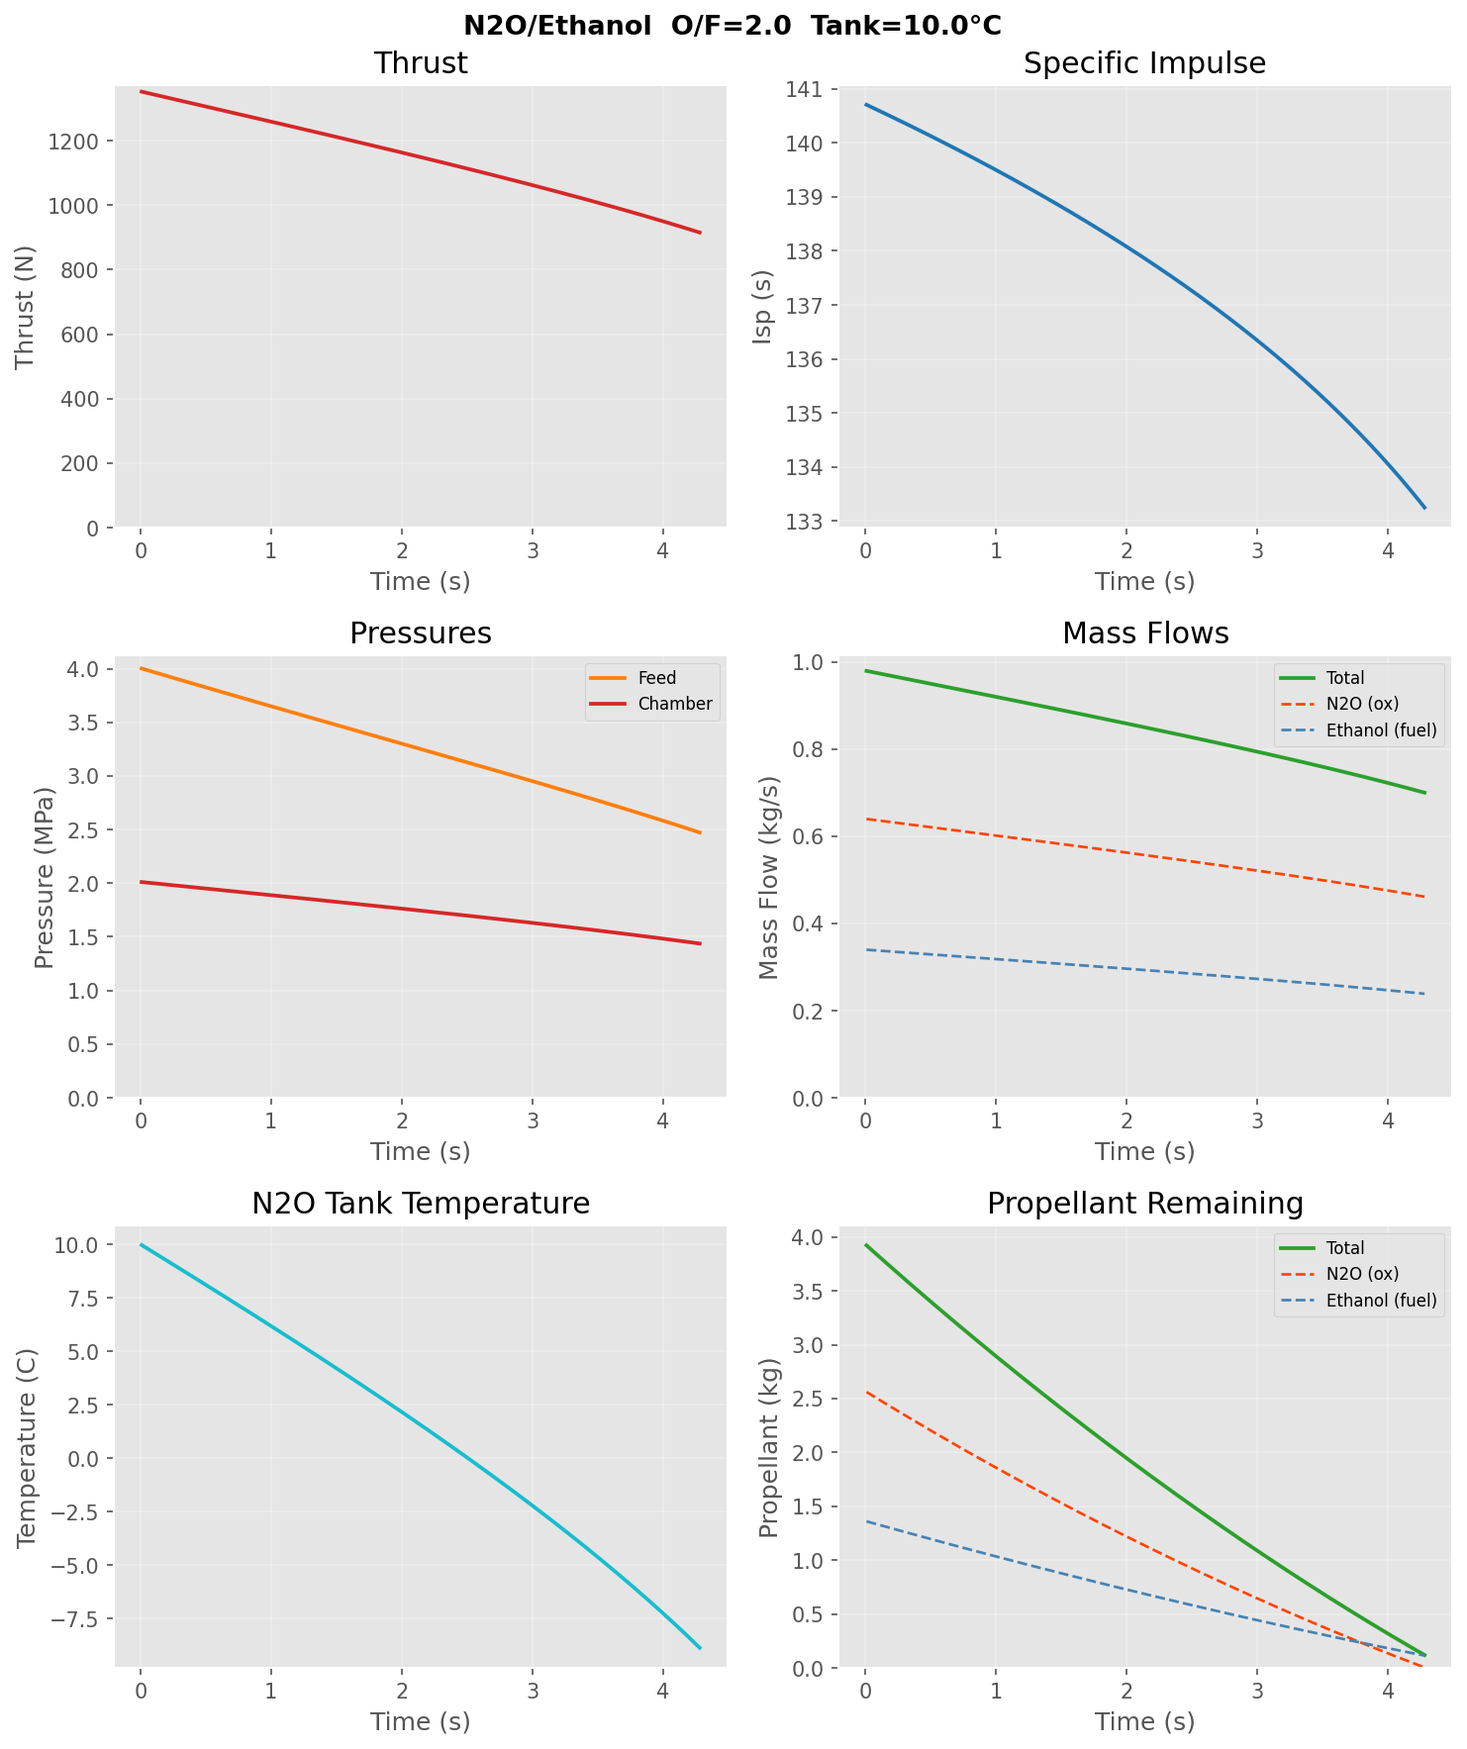
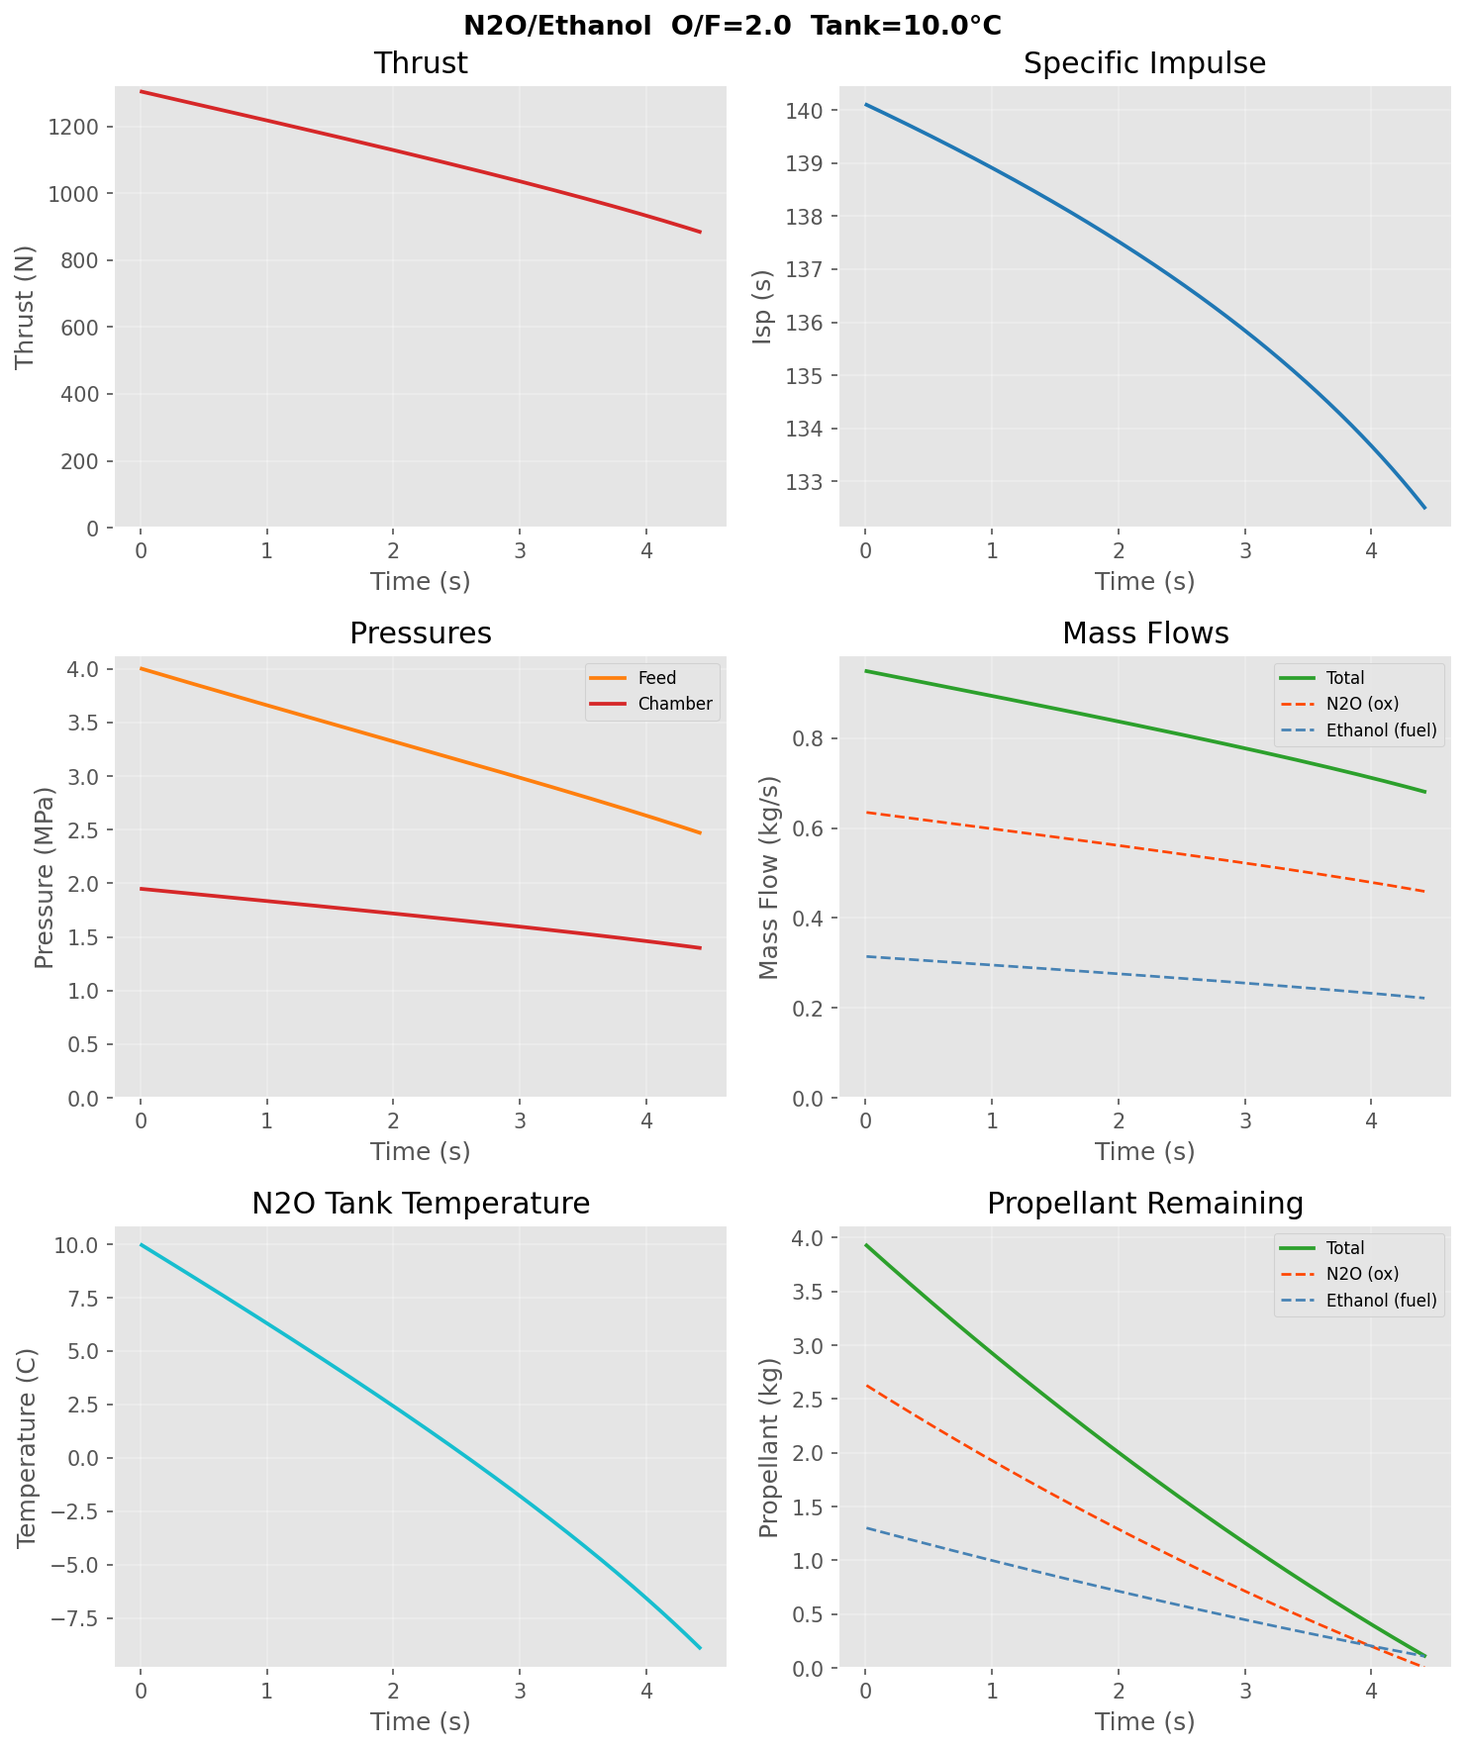
Fittings documentation update
Added fittings for fuel under fluid system, changed fittings to BSPT

diff --git a/Simulation/PistonLiquidRocket.py b/Simulation/PistonLiquidRocket.py
@@ -39,7 +39,7 @@ plt.style.use('ggplot')
 
 sys.stdout.reconfigure(encoding='utf-8', errors='replace')
 from dataclasses import dataclass, field
-from typing import Optional
+from typing import Optional, Tuple
 
 try:
     from CoolProp.CoolProp import PropsSI as _CP
@@ -330,7 +330,7 @@ class EngineConfig:
     # from the design O/F ratio and inj_target_dp.
     cd_ox          : float           = 0.6    # discharge coefficient, N2O orifice(s)
     cd_fuel        : float           = 0.6    # discharge coefficient, fuel orifice(s)
-    ox_hole_diam   : Optional[float] = 2e-3   # N2O injector hole diameter [m]; None = auto-size
+    ox_hole_diam   : Optional[float] = 2.2e-3 # N2O injector hole diameter [m]; None = auto-size (sized for O/F 2.0 with feed-line losses)
     ox_n_holes     : int             = 6      # number of N2O injector holes
     fuel_hole_diam : Optional[float] = 1.5e-3 # fuel injector hole diameter [m]; None = auto-size
     fuel_n_holes   : int             = 6      # number of fuel injector holes
@@ -343,19 +343,22 @@ class EngineConfig:
     A_inj_ox     : Optional[float] = field(default=None, init=False)
     A_inj_fuel   : Optional[float] = field(default=None, init=False)
 
-    # Oxidiser (N2O) feed line  — pipe geometry + in-line valve
-    ox_line_id       : float = 7.94e-3  # inner diameter [m];  0 = no feed-line loss
-    ox_line_length   : float = 0.304    # total length [m]
-    ox_line_roughness: float = 1.5e-6   # wall roughness [m]  (smooth drawn tube default)
-    ox_valve_Cd      : float = 0.8      # valve discharge coefficient [-];  0 = no valve
-    ox_valve_diam    : float = 0.01     # valve bore diameter [m]
+    # Oxidiser (N2O) feed line  — AN6 PTFE hose + in-line valve + fittings
+    # (see OX_FITTINGS / FUEL_FITTINGS below the FeedLine section for the trains)
+    ox_line_id       : float = 7.94e-3  # AN6 PTFE hose inner diameter [m];  0 = no feed-line loss
+    ox_line_length   : float = 0.200    # hose length [m]
+    ox_line_roughness: float = 1.5e-6   # wall roughness [m]  (smooth PTFE liner)
+    ox_valve_Cd      : float = 0.9      # 1/4" BSP 2-pc full-port ball valve, fully open (K ≈ 0.23)
+    ox_valve_diam    : float = 8.0e-3   # valve bore diameter [m]
+    ox_fittings      : Tuple = field(default_factory=lambda: OX_FITTINGS)
 
-    # Fuel feed line  — pipe geometry + in-line valve
+    # Fuel feed line  — same parts, straight hose ends
     fuel_line_id       : float = 7.94e-3
-    fuel_line_length   : float = 1.219
+    fuel_line_length   : float = 0.900
     fuel_line_roughness: float = 1.5e-6
-    fuel_valve_Cd      : float = 0.8
-    fuel_valve_diam    : float = 0.01
+    fuel_valve_Cd      : float = 0.9
+    fuel_valve_diam    : float = 8.0e-3
+    fuel_fittings      : Tuple = field(default_factory=lambda: FUEL_FITTINGS)
 
     # O/F and fuel
     of_ratio         : float          = 2.0
@@ -677,16 +680,57 @@ class PistonTank:
 #   Feed line hydraulic model
 # ═══════════════════════════════════════════════════════════════════════════════
 
+@dataclass(frozen=True)
+class Fitting:
+    """
+    A local (minor) loss in a feed line: ΔP = K · ½ρv², with v taken at `bore`.
+    Equivalent CdA = A_bore / √K, so it adds in series like any other restriction.
+    """
+    name : str
+    bore : float   # flow diameter the K is referenced to [m]
+    K    : float   # loss coefficient [-] (velocity heads at `bore`)
+
+    @property
+    def cda(self) -> float:
+        return np.pi / 4 * self.bore ** 2 / np.sqrt(self.K)
+
+
+# Representative fitting trains for the fluid system in
+# Documentation Vault/02-Design/01-Propulsion System/03-Fluid System.md.
+# Bores are estimates until the parts are measured; K values are standard
+# handbook figures (Idelchik / Crane TP-410) for the geometry described.
+_HOSE_END_BORE = 6.35e-3   # PTFE AN6 hose-end insert ID (~1/4"), est.
+_BSPT18_BORE   = 4.8e-3    # 1/8" BSPT x AN6 adapter bore, limited by 1/8" thread, est.
+
+FUEL_FITTINGS: Tuple[Fitting, ...] = (
+    Fitting("tank exit -> bulkhead port",    8.0e-3, 0.5),   # sharp-edged entrance
+    Fitting("1/4\" BSPT nipple (~100 mm)",   8.0e-3, 0.2),   # f·L/D ≈ 0.014·100/8
+    Fitting("1/4\" BSPT x AN6 adapter",      7.0e-3, 0.15),  # mild step 8 -> 7 mm
+    Fitting("straight hose end (tank)",      _HOSE_END_BORE, 0.5),  # contraction + re-expansion
+    Fitting("straight hose end (injector)",  _HOSE_END_BORE, 0.5),
+    Fitting("1/8\" BSPT x AN6 adapter",      _BSPT18_BORE, 1.3),    # 0.3 contraction + 1.0 dump into manifold
+)
+OX_FITTINGS: Tuple[Fitting, ...] = (
+    FUEL_FITTINGS[0], FUEL_FITTINGS[1], FUEL_FITTINGS[2],
+    Fitting("180° hose end (tank)",          _HOSE_END_BORE, 1.1),  # 0.5 insert + ~0.6 tight 180° bend
+    FUEL_FITTINGS[4],
+    Fitting("AN6 x 1/4\" BSPT adapter",      7.0e-3, 1.1),   # 0.1 step + 1.0 dump into manifold
+)
+
+
 @dataclass
 class FeedLine:
     """
-    Hydraulic model for a feed line (hose/pipe + in-line valve), all in CdA terms.
+    Hydraulic model for a feed line (hose/pipe + in-line valve + fittings),
+    all in CdA terms.
 
     Pipe CdA from Darcy-Weisbach (density cancels exactly):
       CdA_pipe = A / √(f · L/D)   where f = fully-turbulent Colebrook-White limit
 
-    Series combination with valve:
-      1/CdA_eff² = 1/CdA_pipe² + 1/CdA_valve²
+    Fitting CdA from its loss coefficient:  CdA_fit = A_bore / √K
+
+    Series combination:
+      1/CdA_eff² = 1/CdA_pipe² + 1/CdA_valve² + Σ 1/CdA_fit²
 
     f = 0.25 / [log₁₀(ε/3.7D)]²  — Re-independent (Moody chart fully-rough asymptote).
     Valid when Re > ~3500·(D/ε); holds well at propellant flow rates.
@@ -696,6 +740,7 @@ class FeedLine:
     roughness  : float = 1.5e-6   # absolute wall roughness [m] (smooth drawn tube default)
     valve_Cd   : float = 0.0      # valve discharge coefficient [-]; 0 = no valve loss
     valve_diam : float = 0.0      # valve bore diameter [m]
+    fittings   : Tuple[Fitting, ...] = ()   # local losses in series with pipe + valve
 
     def friction_factor(self) -> float:
         """Fully-turbulent Colebrook-White: 1/√f = −2·log₁₀(ε/3.7D)"""
@@ -721,6 +766,8 @@ class FeedLine:
             inv_sq += 1.0 / CdA_pipe ** 2
         if self.valve_cda > 0:
             inv_sq += 1.0 / self.valve_cda ** 2
+        for fit in self.fittings:
+            inv_sq += 1.0 / fit.cda ** 2
         return 1.0 / np.sqrt(inv_sq) if inv_sq > 0 else 0.0
 
     def summary(self) -> str:
@@ -733,6 +780,8 @@ class FeedLine:
         if self.valve_Cd > 0 and self.valve_diam > 0:
             CdA_v = self.valve_Cd * np.pi / 4 * self.valve_diam ** 2
             parts.append(f"valve {self.valve_diam*1e3:.2f} mm × Cd {self.valve_Cd:.3f} = CdA {CdA_v*1e6:.3f} mm²")
+        if self.fittings:
+            parts.append(f"{len(self.fittings)} fittings")
         desc = "  ".join(parts) if parts else "none"
         return f"{desc}  →  CdA={cda*1e6:.3f} mm²" if cda > 0 else "none"
 
@@ -766,11 +815,13 @@ class PistonEngine:
             inner_diam=cfg.ox_line_id,   length=cfg.ox_line_length,
             roughness=cfg.ox_line_roughness,
             valve_Cd=cfg.ox_valve_Cd,    valve_diam=cfg.ox_valve_diam,
+            fittings=tuple(cfg.ox_fittings),
         )
         self._feedline_fuel = FeedLine(
             inner_diam=cfg.fuel_line_id, length=cfg.fuel_line_length,
             roughness=cfg.fuel_line_roughness,
             valve_Cd=cfg.fuel_valve_Cd,  valve_diam=cfg.fuel_valve_diam,
+            fittings=tuple(cfg.fuel_fittings),
         )
         # Series combination: 1/K_eff^2 = 1/K_inj^2 + 1/K_line^2
         for fl, attr, rho in [
@@ -1087,12 +1138,13 @@ def print_config(cfg: EngineConfig, eng: PistonEngine):
     fl_ox   = eng._feedline_ox
     fl_fuel = eng._feedline_fuel
     print(f"  Feed lines")
-    print(f"    N2O  : {fl_ox.summary()}")
-    if fl_ox.valve_cda > 0:
-        print(f"           valve CdA = {fl_ox.valve_cda*1e6:.3f} mm²")
-    print(f"    Fuel : {fl_fuel.summary()}")
-    if fl_fuel.valve_cda > 0:
-        print(f"           valve CdA = {fl_fuel.valve_cda*1e6:.3f} mm²")
+    for label, fl in (("N2O ", fl_ox), ("Fuel", fl_fuel)):
+        print(f"    {label} : {fl.summary()}")
+        if fl.valve_cda > 0:
+            print(f"           valve CdA = {fl.valve_cda*1e6:.3f} mm²")
+        for fit in fl.fittings:
+            print(f"           {fit.name:<30s} Ø{fit.bore*1e3:.2f} mm  K={fit.K:.2f}"
+                  f"  CdA={fit.cda*1e6:.2f} mm²")
     print(f"  Injectors")
     print(f"    N2O  : {cfg.ox_n_holes}x Ø{cfg.ox_hole_diam*1e3:.3f} mm  "
           f"(A={cfg.A_inj_ox*1e6:.2f} mm²)  Cd={cfg.cd_ox:.3f}  "

diff --git a/Simulation/baseline_mojave.py b/Simulation/baseline_mojave.py
@@ -119,6 +119,10 @@ cfg = EngineConfig(
     fuel_valve_Cd       = 1.0,
     fuel_valve_diam     = VALVE_DIAM,   # Cv=1.6
 
+    # HalfCatSim models no fitting losses beyond the line + valve
+    ox_fittings         = (),
+    fuel_fittings       = (),
+
     # --- Combustion efficiency ---
     cstar_eta        = 0.60,            # HalfCatSim
     nozzle_eta       = 0.97,

diff --git a/Documentation Vault/02-Design/01-Propulsion System/03-Fluid System.md b/Documentation Vault/02-Design/01-Propulsion System/03-Fluid System.md
@@ -1,23 +1,36 @@
+
 # Oxidiser
+# QD - Ox Tank
+| Fitting             | Input          | Output                             | Material | Cost | Supplier                                                                                                        |
+| ------------------- | -------------- | ---------------------------------- | -------- | ---- | --------------------------------------------------------------------------------------------------------------- |
+| QD fitting (female) | -              | 1/8" BSPT female                   |          |      |                                                                                                                 |
+| Air line elbow      | 1/8" BSPT male | 1/4" OD tube compression (Uni-Lok) | Brass    |      | [IFS B-04UME-02R](https://www.ifsqld.com.au/libraries/resources/pdfs/IFS%202025%20UN-PRICED%20MASTER%20PT2.pdf) |
 
-## QD - Tank
-- QD fitting (female): 1/8" NPT female
-- Air line fitting: 1/8" NPT male -> xxx tube compression fitting
-
-## Tank - Combustion Chamber
-- Bulkhead: 1/4" NPT female
-- Nipple: 1/4" NPT male -> 1/4" NPT male
-- Main valve: 1/4" NPT female -> 1/4" NPT female
-- Straight adapter: 1/4" NPT male -> 1/4" NPT female
-- Elbow: 1/4" NPT male -> 1/4" NPT female
-- Reducing nipple: 1/4" NPT male -> 1/8" NPT male
-- Elbow: 1/8" NPT female -> 1/8" NPT female
-- Flare fitting: 1/8" NPT male -> AN6 male
-- AN6 hose end
-- AN6 (7/16" OD) line
-- AN6 hose end
-- Flare fitting: AN6 male -> 1/8" NPT male
+# Ox Tank - Combustion Chamber
+| Fitting         | Input            | Output           | Material                | Cost      | Supplier                                                                                                  |
+| --------------- | ---------------- | ---------------- | ----------------------- | --------- | --------------------------------------------------------------------------------------------------------- |
+| Bulkhead        | -                | 1/4" BSPT female | Aluminium               | -         | -                                                                                                         |
+| Nipple          | 1/4" BSPT male   | 1/4" BSPT male   | Brass                   |           | [IFS 2812](https://www.ifsqld.com.au/libraries/resources/pdfs/IFS%202025%20UN-PRICED%20MASTER%20PT1.pdf)  |
+| Main valve      | 1/4" BSPP female | 1/4" BSPP female | 304 stainless steel     | A$6.29    | [Camlock Fittings](https://www.camlockfittings.com.au/1-4-ball-valve-ss304.html)                          |
+| Flare fitting   | 1/4" BSPT male   | AN6 male         | Aluminium               | A$3.99    | [EFI Solutions](https://www.efisolutions.com.au/bspt-1-4-to-male-an6)                                     |
+| 180° hose end   | AN6 female       | AN6 hose         | Aluminium               | A$18.39   | [EFI Solutions](https://www.efisolutions.com.au/180-degree-full-flow-ptfe-teflon-hose-end-an6)            |
+| Line (7/16" OD) | AN6 hose         | AN6 hose         | PTFE, braided stainless | A$18.99/m | [EFI Solutions](https://www.efisolutions.com.au/200-series-ptfe-teflon-braided-stainless-steel-hos~50095) |
+| Hose end        | AN6 hose         | AN6 female       | Aluminium               | A$8.99    | [EFI Solutions](https://www.efisolutions.com.au/straight-full-flow-ptfe-teflon-hose-end-an6-black)        |
+| Flare fitting   | AN6 male         | 1/4" BSPT male   | Aluminium               | A$3.99    | [EFI Solutions](https://www.efisolutions.com.au/bspt-1-4-to-male-an6)                                     |
+| Injector        | 1/4" BSPT female | -                | Aluminium               | -         | -                                                                                                         |
 
 # Fuel
 
-# Main
+## Fuel Tank - Combustion Chamber
+| Fitting         | Input            | Output           | Material                | Cost      | Supplier                                                                                                  |
+| --------------- | ---------------- | ---------------- | ----------------------- | --------- | --------------------------------------------------------------------------------------------------------- |
+| Bulkhead        | -                | 1/4" BSPT female | Aluminium               | -         | -                                                                                                         |
+| Nipple          | 1/4" BSPT male   | 1/4" BSPT male   | Brass                   |           | [IFS 2812](https://www.ifsqld.com.au/libraries/resources/pdfs/IFS%202025%20UN-PRICED%20MASTER%20PT1.pdf)  |
+| Main valve      | 1/4" BSPP female | 1/4" BSPP female | 304 stainless steel     | A$6.29    | [Camlock Fittings](https://www.camlockfittings.com.au/1-4-ball-valve-ss304.html)                          |
+| Flare fitting   | 1/4" BSPT male   | AN6 male         | Aluminium               | A$3.99    | [EFI Solutions](https://www.efisolutions.com.au/bspt-1-4-to-male-an6)                                     |
+| Hose end        | AN6 female       | AN6 hose         | Aluminium               | A$8.99    | [EFI Solutions](https://www.efisolutions.com.au/straight-full-flow-ptfe-teflon-hose-end-an6-black)        |
+| Line (7/16" OD) | AN6 hose         | AN6 hose         | PTFE, braided stainless | A$18.99/m | [EFI Solutions](https://www.efisolutions.com.au/200-series-ptfe-teflon-braided-stainless-steel-hos~50095) |
+| Hose end        | AN6 hose         | AN6 female       | Aluminium               | A$8.99    | [EFI Solutions](https://www.efisolutions.com.au/straight-full-flow-ptfe-teflon-hose-end-an6-black)        |
+| Flare fitting   | AN6 male         | 1/8" BSPT male   | Aluminium               | A$3.99    | [EFI Solutions](https://www.efisolutions.com.au/bspt-1-8-to-male-an6)                                     |
+| Injector        | 1/8" BSPT female | -                | Aluminium               | -         | -                                                                                                         |
+

diff --git a/Documentation Vault/02-Design/01-Propulsion System/01-Propulsion System Overview.md b/Documentation Vault/02-Design/01-Propulsion System/01-Propulsion System Overview.md
@@ -34,7 +34,7 @@ A comparison of potential fuel types is summarised below:
 | Methanol                | Poor     | [$2.5/L](https://www.sydneysolvents.com.au/methanol-20-litre)                        | Delivery              | ~           | Almost invisible light blue  | "Should not be used" - Half Cat |
 On the basis of safety, the use of methanol was ruled out due to its high toxicity.
 
-For propellants, ethanol was chosen for its high performance and availability.
+For propellants, ethanol was chosen for its high performance and availability, with E85 as a secondary option for a more visible flame at the slight cost of performance. Running the engine with ethanol will require less maintenance as it doesn't leave a residue, unlike E85.
 
 ![[tc_isp_vs_lambda.png]]
 
@@ -63,14 +63,10 @@ The tank is a "piston style" tank that is the same as Half Cat's design, where t
 #### Regulators
 No regulators are used - instead the main valves are set to open at a point between the operating pressure and the burst pressure of the tank, in the case of an extremely hot day or radiative heating of the tank resulting in it being heated to greater than 35 degrees C.
 #### Valves
-1/4" NPT brass full port ball valve, 1000 psi - [Aircraft Spruce]([https://www.camlockfittings.com.au/2-piece-ball-valves-ss304.html](https://www.aircraftspruce.com.au/catalog/appages/highpressurevalve.php))
+1/4" (8mm) BSP, 304 Stainless Steel, 2 Pc Ball Valve, Full Port, 1000 PSI - [Camlock Fittings]([https://www.aircraftspruce.com.au/catalog/appages/highpressurevalve.php](https://www.camlockfittings.com.au/1-4-ball-valve-ss304.html))
 Use 3d print with [DS3225 servo - Amazon](https://www.amazon.com.au/AKLOSIPY-DS3225MG-Digital-Servo-Multiple/dp/B0FX16CGW4?source=ps-sl-shoppingads-lpcontext&psc=1&smid=A1VAS17HV99LTB) to convert to servo valve for ox fill valve, main ox valve and main fuel valve.
 #### Plumbing (Hose + Fittings)
-Half Cat's use of braided PTFE flex lines for hose is adopted. [AN6 (7/16" OD) line](https://www.efisolutions.com.au/200-series-ptfe-teflon-braided-stainless-steel-hos~50095) from EFI solutions is used (AN5 would be used for the fuel if not for its unavailability from EFI Solutions).
-
-For generic fittings, [Pirtek](https://www.pirtek.com.au/products/hydraulic/adaptors) is used.
-
-For the AN fittings connecting to flex line, EFI solutions is used.
+See [03-Fluid System](03-Fluid%20System.md)
 ## Analysis
 The simulation models a piston-fed N2O + liquid fuel rocket where a two-phase N2O tank self-pressurises and drives a piston to expel fuel. At each timestep it computes propellant mass flow rates through injector orifices (using incompressible orifice flow), calls rocketCEA to get ideal combustion properties (T0, γ, MW, c*), applies combustion efficiency to get actual c*, then solves the chamber pressure from c* = Pc·At/ṁ. Thrust and Isp follow from the nozzle expansion, and the N2O tank state evolves via an adiabatic energy balance accounting for liquid/vapour phase change.
 
